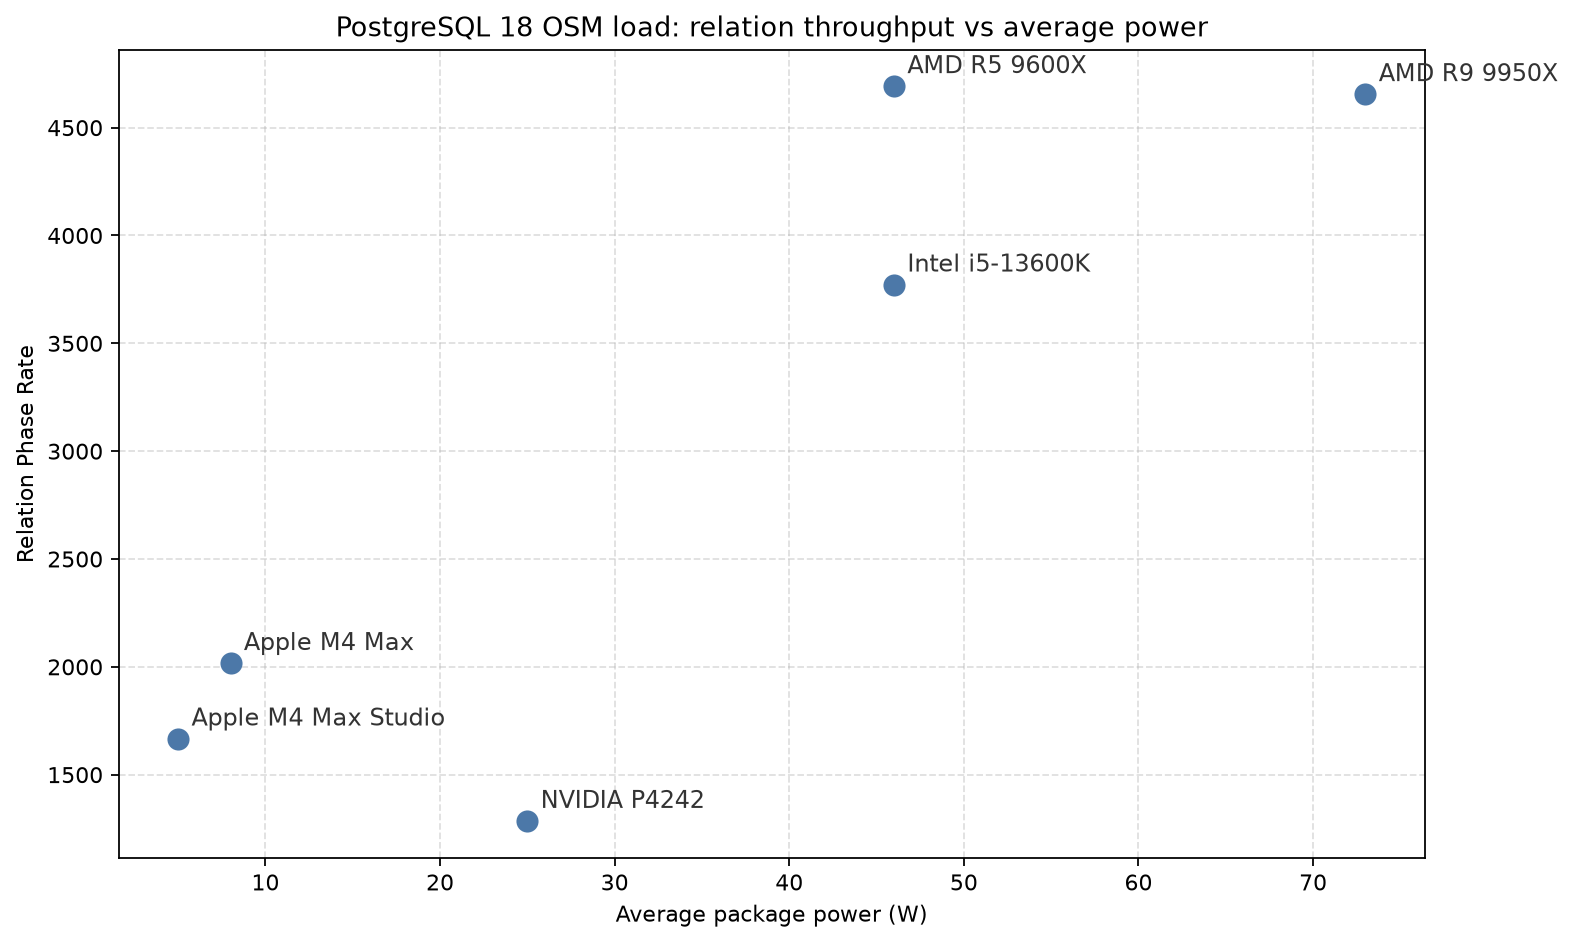
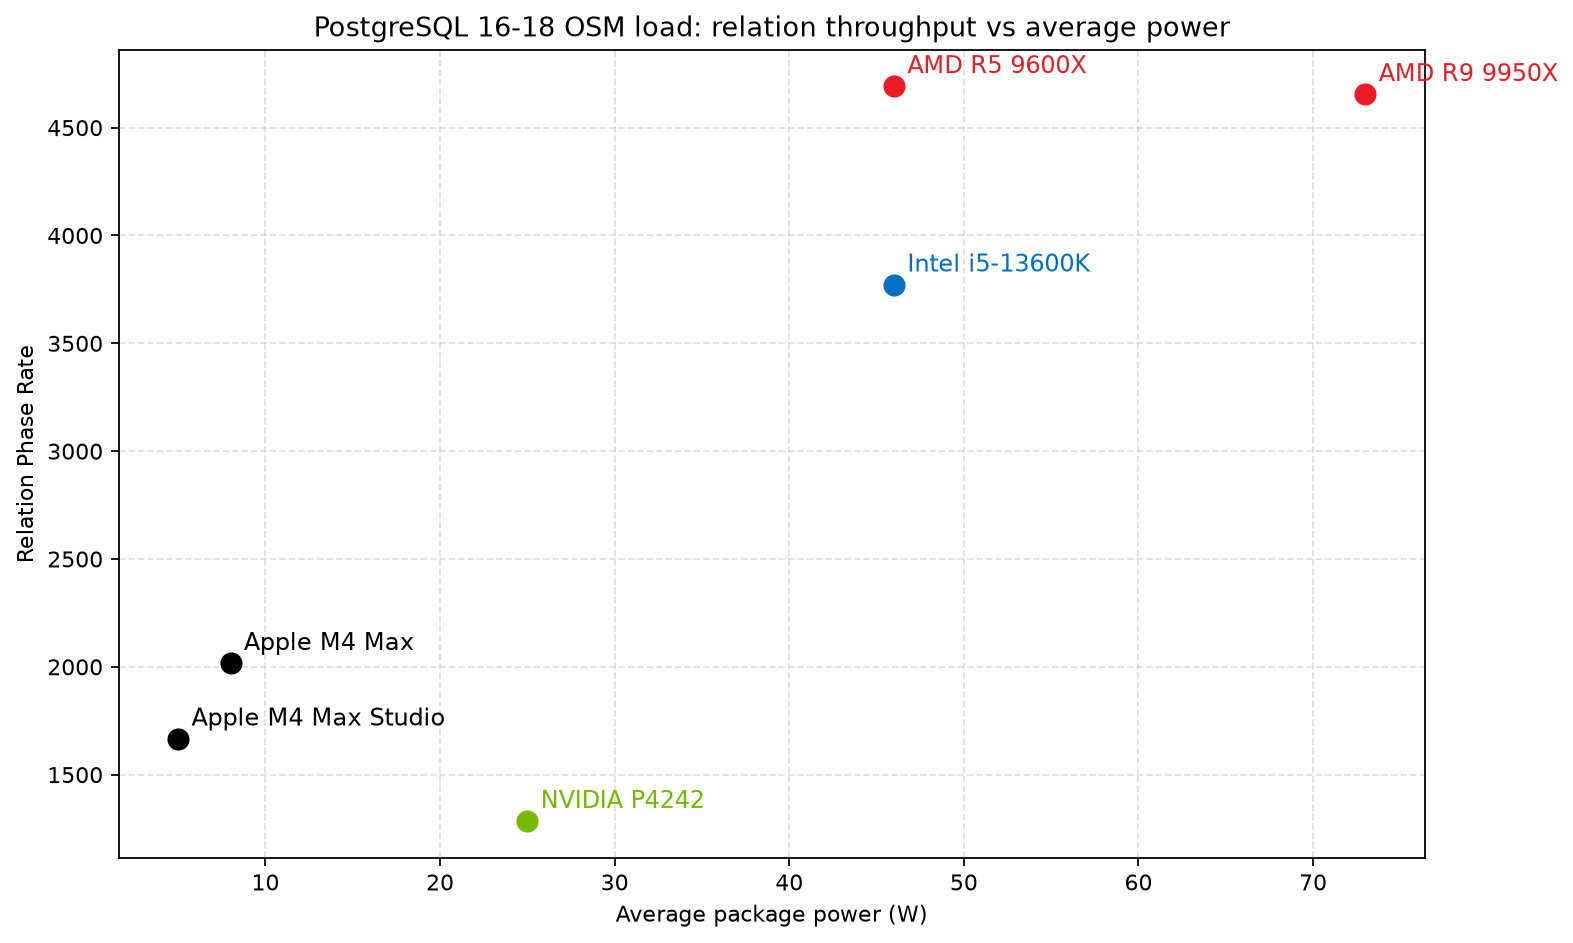
Color OSM relation scatter by CPU vendor and widen title to PG 16-18.
Add cpu_c brand colors to the relation table and use them for scatter points and labels.

diff --git a/reports/osm-relation-power.py b/reports/osm-relation-power.py
@@ -30,7 +30,7 @@ DEFAULT_SCATTER = REPO_ROOT / "docs/images/pg18-osm-relation-scatter.png"
 RELATION_HEADING = "## Relation power efficiency"
 
 BAR_COLOR = "#72b7b2"
-POINT_COLOR = "#4c78a8"
+DEFAULT_POINT_COLOR = "#333333"
 
 
 def parse_args() -> argparse.Namespace:
@@ -105,27 +105,27 @@ def plot_relation_efficiency(df: pd.DataFrame, output: Path, show: bool = False)
 def plot_relation_scatter(df: pd.DataFrame, output: Path, show: bool = False) -> None:
     fig, ax = plt.subplots(figsize=(10, 6))
 
-    ax.scatter(
-        df["avg_watts"],
-        df["rel"],
-        s=80,
-        color=POINT_COLOR,
-        zorder=3,
-    )
-
     for _, row in df.iterrows():
+        color = str(row.get("cpu_c", "")).strip() or DEFAULT_POINT_COLOR
+        ax.scatter(
+            row["avg_watts"],
+            row["rel"],
+            s=80,
+            color=color,
+            zorder=3,
+        )
         ax.annotate(
             row["cpu"],
             xy=(row["avg_watts"], row["rel"]),
             xytext=(6, 6),
             textcoords="offset points",
             fontsize=11,
-            color="#333333",
+            color=color,
         )
 
     ax.set_xlabel("Average package power (W)")
     ax.set_ylabel("Relation Phase Rate")
-    ax.set_title("PostgreSQL 18 OSM load: relation throughput vs average power")
+    ax.set_title("PostgreSQL 16-18 OSM load: relation throughput vs average power")
     ax.grid(True, linestyle="--", alpha=0.4)
     plain_axis(ax)
 

diff --git a/docs/results-summary/pg18/osm-power.md b/docs/results-summary/pg18/osm-power.md
@@ -51,11 +51,11 @@ The scatter view shows the same data directly: **R5 9600X** and **R9 9950X** rea
 
 Regenerate: `python3 reports/osm-relation-power.py` (reads the relation table below).
 
-| cpu | ver | rel | avg_watts | max_watts | rel_per_watt |
-| --- | --- | --- | --- | --- | --- |
-| Apple M4 Max | 17 | 2016 | 8 | 23 | 245 |
-| Apple M4 Max Studio | 17 | 1666 | 5 | 25 | 325 |
-| NVIDIA P4242 | 16 | 1284 | 25 | 64 | 51 |
-| AMD R5 9600X | 17 | 4691 | 46 | 89 | 101 |
-| AMD R9 9950X | 17 | 4654 | 73 | 168 | 64 |
-| Intel i5-13600K | 17 | 3771 | 46 | 124 | 82 |
+| cpu | ver | rel | avg_watts | max_watts | rel_per_watt | cpu_c |
+| --- | --- | --- | --- | --- | --- | --- |
+| Apple M4 Max | 17 | 2016 | 8 | 23 | 245 | #000000 |
+| Apple M4 Max Studio | 17 | 1666 | 5 | 25 | 325 | #000000 |
+| NVIDIA P4242 | 16 | 1284 | 25 | 64 | 51 | #76B900 |
+| AMD R5 9600X | 17 | 4691 | 46 | 89 | 101 | #ED1C24 |
+| AMD R9 9950X | 17 | 4654 | 73 | 168 | 64 | #ED1C24 |
+| Intel i5-13600K | 17 | 3771 | 46 | 124 | 82 | #0071C5 |
